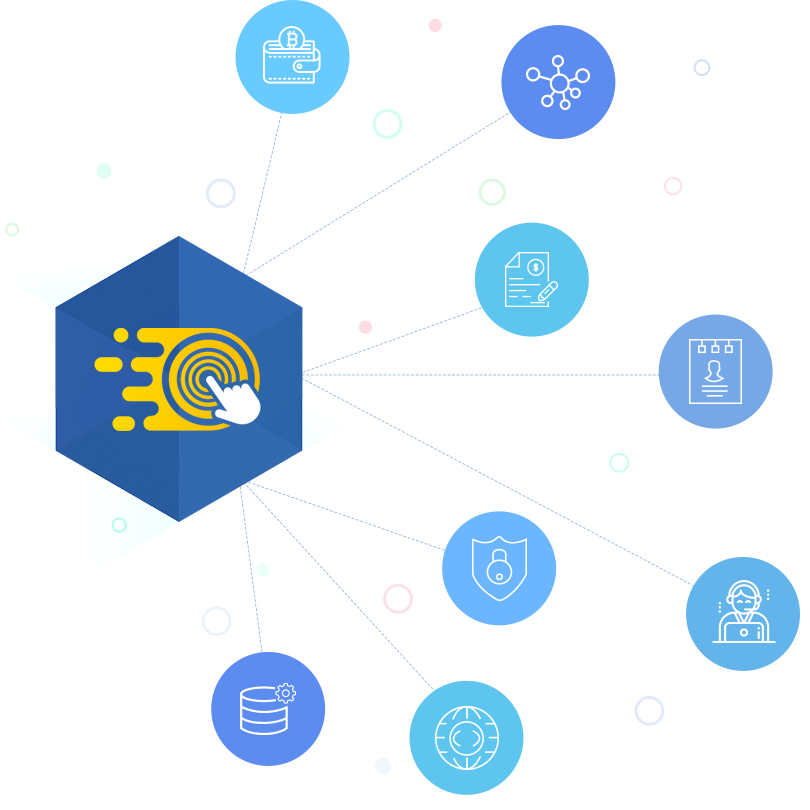
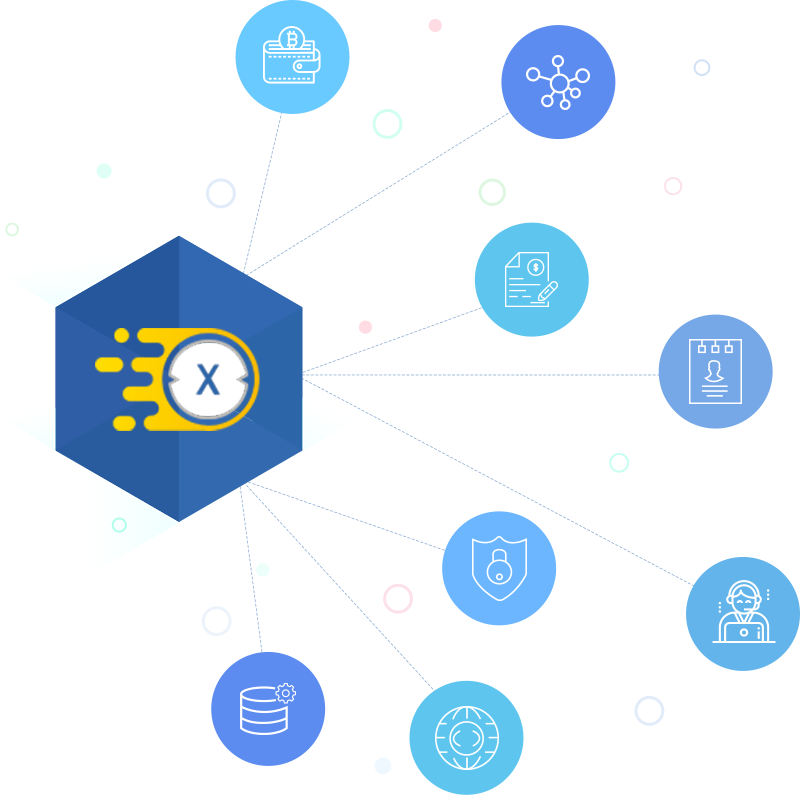
launch-your-own-data-feed.ejs page created
get-price-data-feed.ejs changes,
providers.ejs changes,
style.css changes,
All MyContract logo and icons changed

Changed region(s): [[0.1852, 0.4012, 0.3395, 0.5247], [0.1543, 0.4938, 0.1852, 0.5247], [0.1235, 0.4321, 0.1543, 0.463]]

diff --git a/public/css/style.css b/public/css/style.css
@@ -5983,6 +5983,7 @@ body.light-version {
 }
 
 
+.linkbreak {overflow-wrap: break-word; word-wrap: break-word;-ms-word-break: break-all;word-break: break-all;word-break: break-word;-ms-hyphens: auto;-moz-hyphens: auto;-webkit-hyphens: auto;hyphens: auto;}
 
 
 .contact-form {
